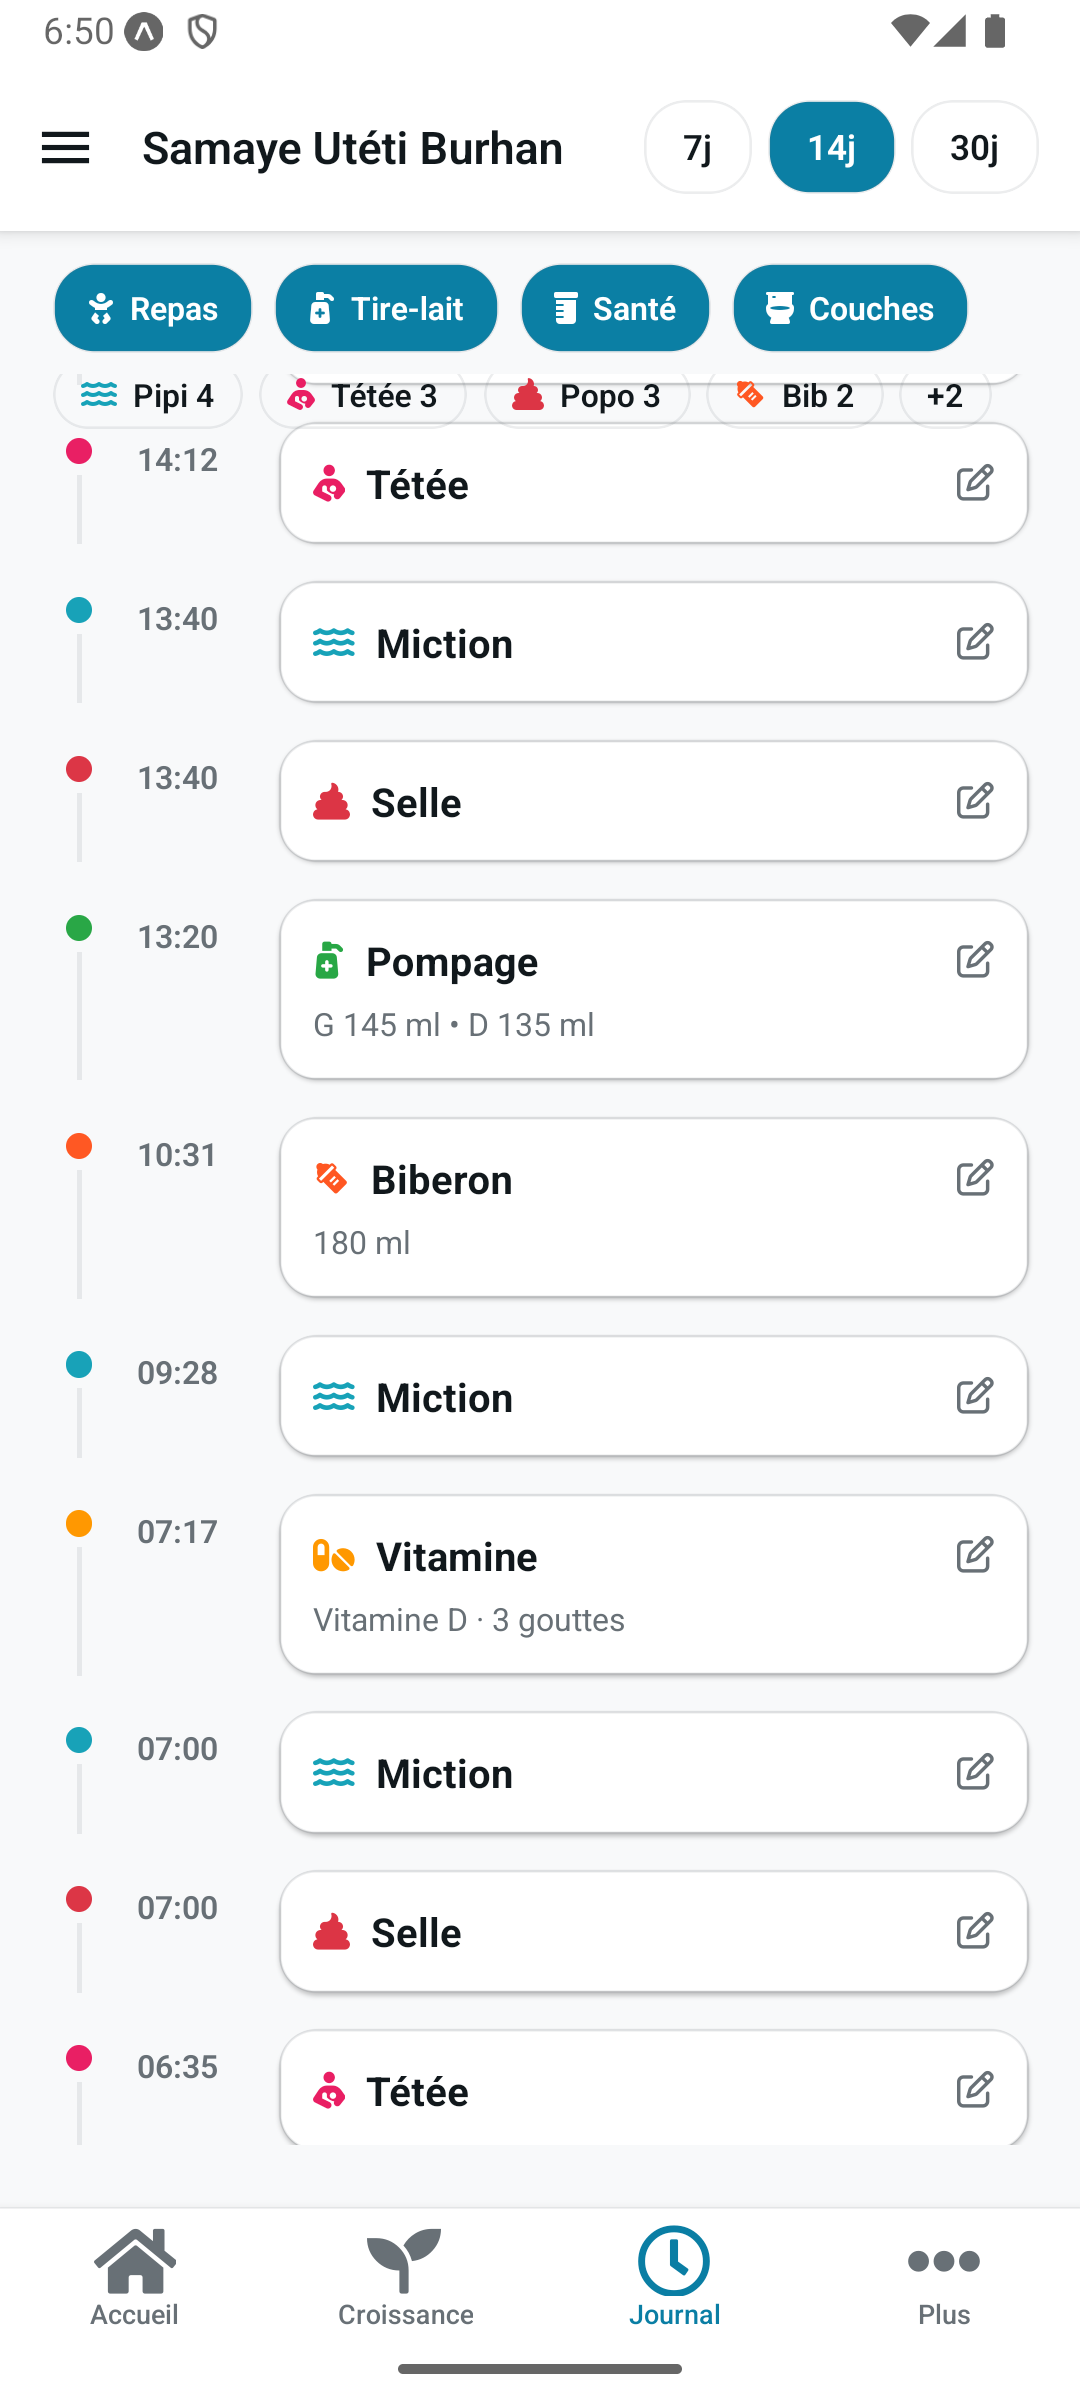
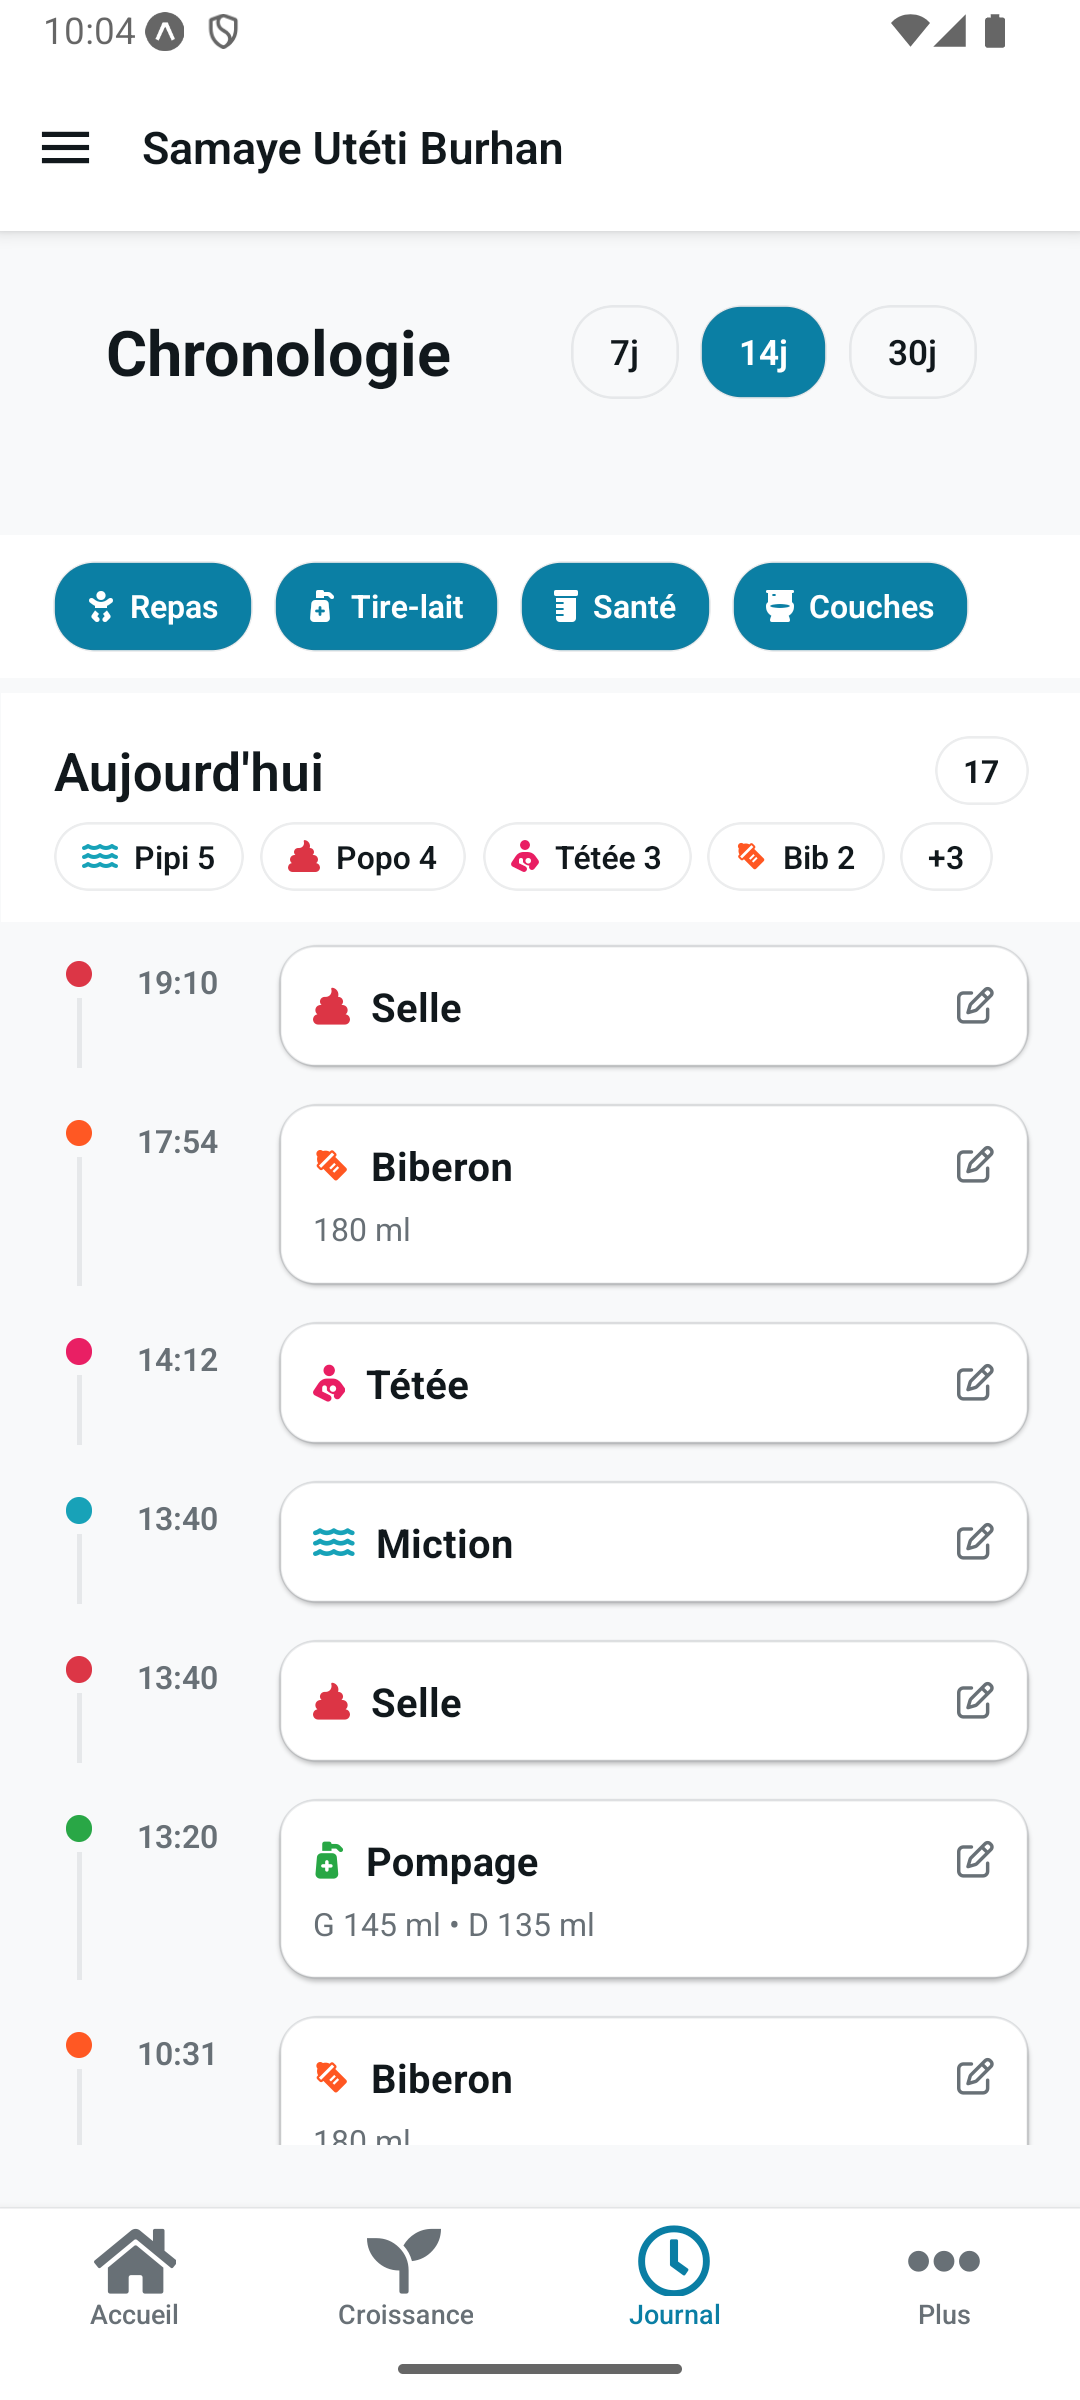
trying to fix stickyheaders in chrono screen part 3

diff --git a/app/(drawer)/baby/(tabs)/chrono.tsx b/app/(drawer)/baby/(tabs)/chrono.tsx
@@ -1086,17 +1086,16 @@ const styles = StyleSheet.create({
   },
   header: {
     paddingTop: 20,
-    paddingBottom: 4,
   },
   headerRow: {
     flexDirection: "row",
     alignItems: "center",
     justifyContent: "space-between",
-    paddingHorizontal: 20,
-    marginBottom: 12,
   },
   filtersPlaceholder: {
     height: 52, // Same height as sticky filters
+    marginTop: 12,
+    marginHorizontal: -20, // Compensate for listContent paddingHorizontal
   },
   title: {
     fontSize: 24,
@@ -1160,7 +1159,7 @@ const styles = StyleSheet.create({
     paddingTop: 16,
     paddingBottom: 12,
     gap: 6,
-    top: 52, // Offset to position below sticky filters (FILTERS_HEIGHT)
+    top: 52, // Offset to position below sticky filters
   },
   sectionTitleRow: {
     flexDirection: "row",
